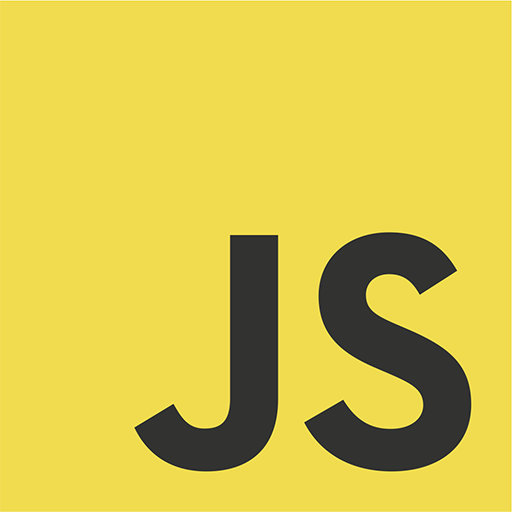
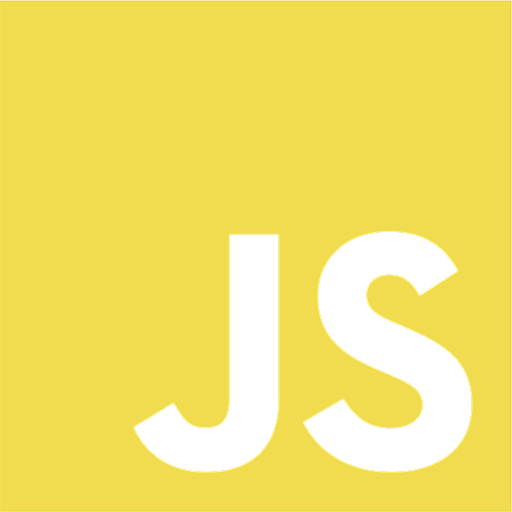
lang monotone anim

Changed region(s): [[0.5938, 0.4375, 0.9375, 0.9375], [0.25, 0.4375, 0.5625, 0.9375]]

diff --git a/public/index.html b/public/index.html
@@ -1,1 +1,1 @@
-<!DOCTYPE html><html><head><title>DuoCoder</title><link rel="stylesheet" href="base.css"><link rel="stylesheet" href="main.css"><script type="text/javascript" src="duocoder.js"></script></head><body><h1>#DuoCoder</h1><div class="title-divider">_</div><h3>1| Which one are you familiar with?</h3></body></html>
+<!DOCTYPE html><html><head><title>DuoCoder</title><link rel="stylesheet" href="base.css"><link rel="stylesheet" href="main.css"><script type="text/javascript" src="duocoder.js"></script></head><body><h1>#DuoCoder</h1><div class="title-divider">_</div><h3>1| Which one are you familiar with?</h3><div class="lang-container"><div class="lang"><div class="logo" style="background-image: url(&quot;./images/lang_java.png&quot;)"><div class="logo mono" style="background-image: url(&quot;./images/lang_java_mono.png&quot;)"></div></div><div class="name">Java</div></div><div class="lang"><div class="logo" style="background-image: url(&quot;./images/lang_python.png&quot;)"><div class="logo mono" style="background-image: url(&quot;./images/lang_python_mono.png&quot;)"></div></div><div class="name">Python</div></div><div class="lang"><div class="logo" style="background-image: url(&quot;./images/lang_cpp.png&quot;)"><div class="logo mono" style="background-image: url(&quot;./images/lang_cpp_mono.png&quot;)"></div></div><div class="name">C++</div></div><div class="lang"><div class="logo" style="background-image: url(&quot;./images/lang_ecmascript.png&quot;)"><div class="logo mono" style="background-image: url(&quot;./images/lang_ecmascript_mono.png&quot;)"></div></div><div class="name">ECMAScript</div></div><div class="lang"><div class="logo" style="background-image: url(&quot;./images/lang_idk.png&quot;)"><div class="logo mono" style="background-image: url(&quot;./images/lang_idk_mono.png&quot;)"></div></div><div class="name">Nada.</div></div></div></body></html>

diff --git a/public/main.css b/public/main.css
@@ -5,4 +5,4 @@
  * @link https://github.com/parkjs814/DuoCoder
  * @license MIT
  */
-body{padding-top:.2em}.title-divider{margin-top:-1.2em;margin-bottom:-.2em;font-size:1.5em}
+body{padding-top:.2em}.title-divider{margin-top:-1.2em;margin-bottom:-.2em;font-size:1.5em}.lang{display:inline-block;margin:24px}.lang .logo{width:196px;height:196px;background:no-repeat center;background-size:contain}.lang .name{margin-top:16px;width:196px}.lang:hover .logo.mono{opacity:0;transition:opacity .5s}.lang:hover .name{color:white;transition:color .5s}

diff --git a/css/main.scss b/css/main.scss
@@ -8,3 +8,27 @@ body {
   font-size: 1.5em;
 }
 
+.lang {
+  display: inline-block;
+  margin: 24px;
+  .logo {
+    width: 196px;
+    height: 196px;
+    background: no-repeat center;
+    background-size: contain;
+  }
+  .name {
+    margin-top: 16px;
+    width: 196px;
+  }
+  &:hover {
+    .logo.mono {
+      opacity: 0;
+      transition: opacity .5s;
+    }
+    .name {
+      color: white;
+      transition: color .5s;
+    }
+  }
+}
